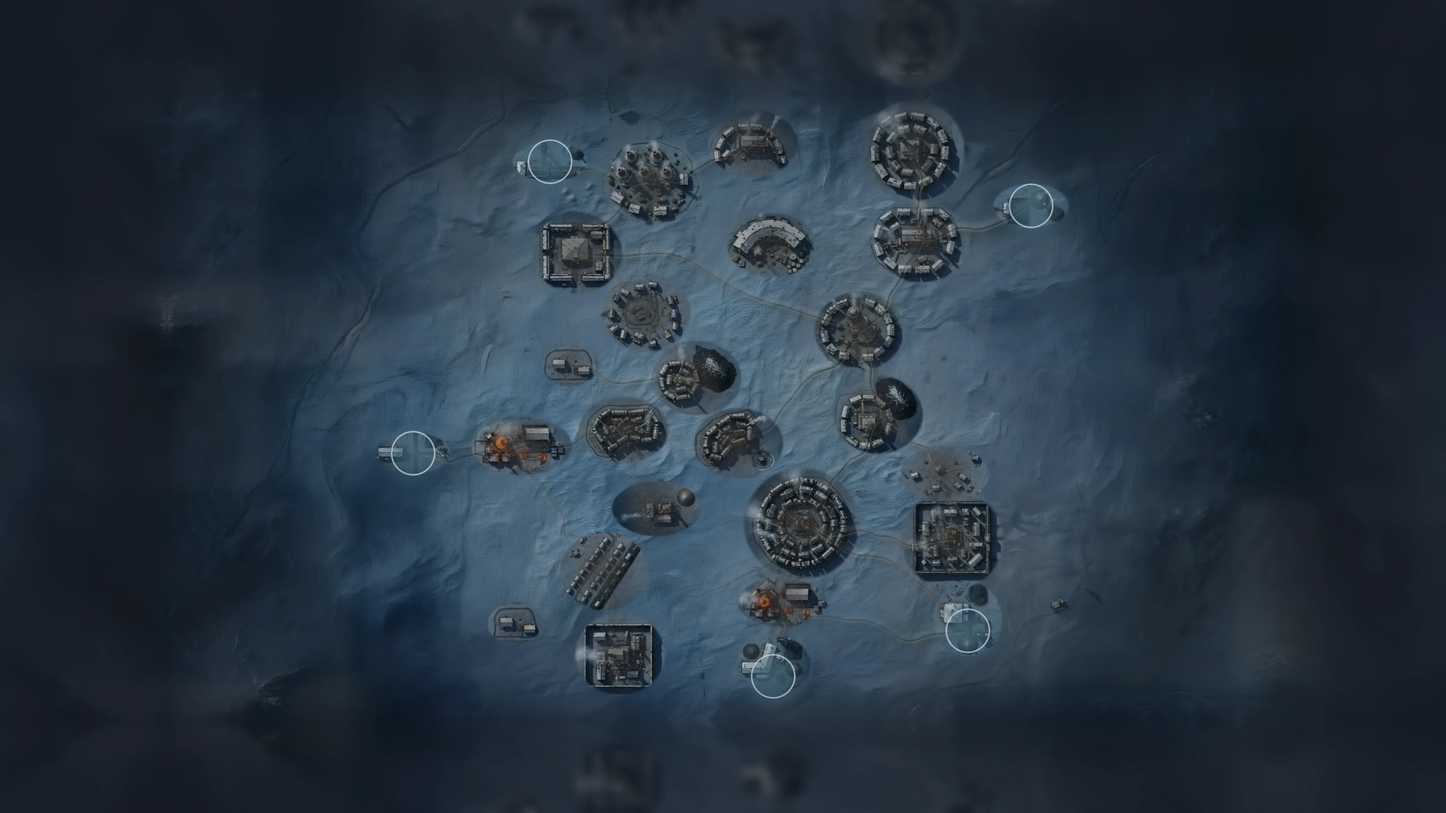
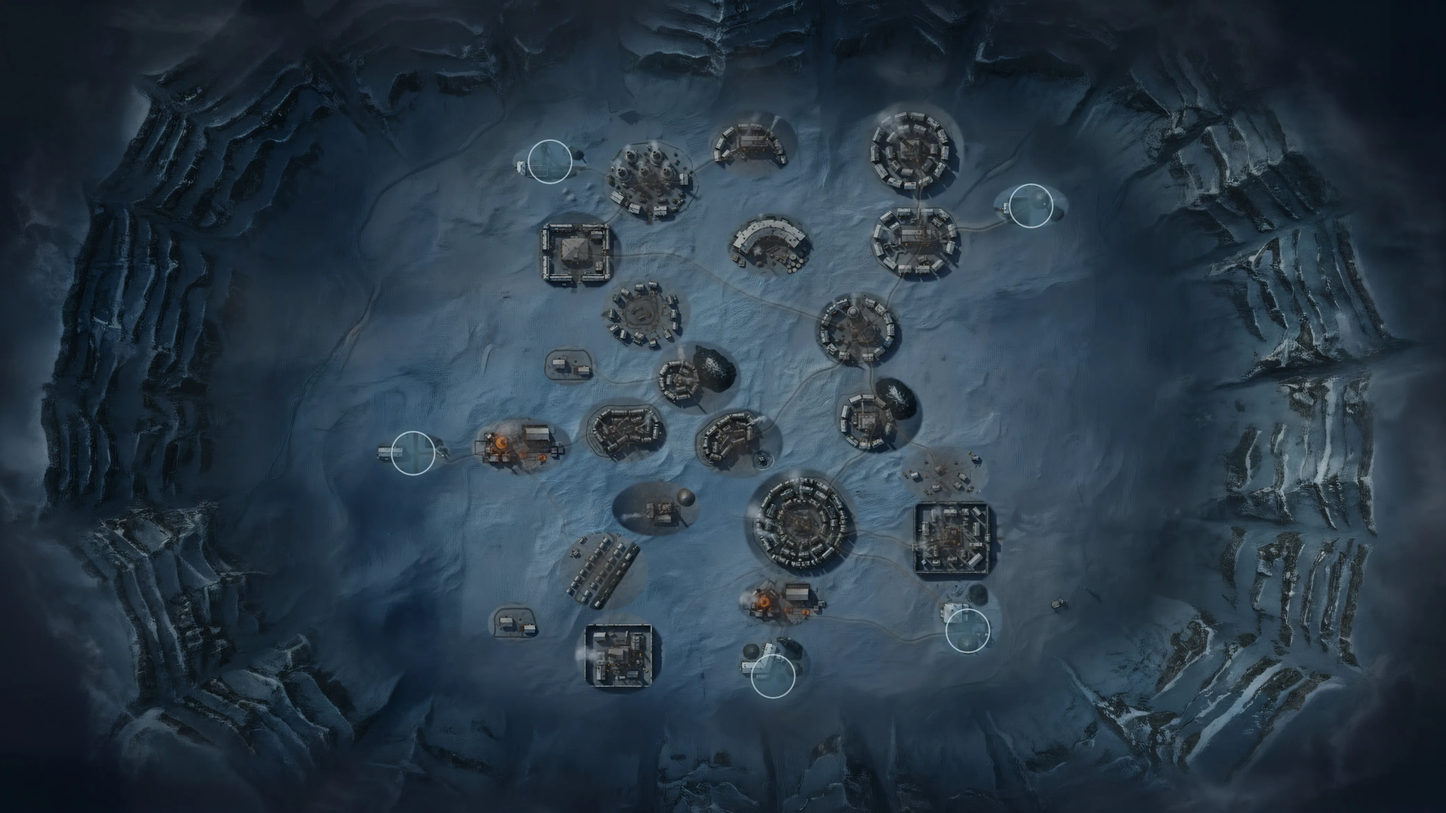
feat(assets): raise the crater's rim round the frozen city
The frozen city sat on a plain that faded to nothing. Walls of ice and
dark rock now rise where the board ends, laid through the crater's
floor so the play area and every place on it stay as they were.

diff --git a/tools/map/crater-rim.py b/tools/map/crater-rim.py
@@ -1,0 +1,42 @@
+#!/usr/bin/env python3
+"""The crater's rim laid round a served ground (ImageMagick 7).
+
+Frostpunk's city sits at the bottom of a crater. Asked to paint the rim
+round the frozen city (the served ground handed over, "keep the middle
+exactly as it is"), the model also repainted the middle and let the walls
+climb a long way into the play area; so only its margin is used, from the
+world's edge outward, laid over the ground through a soft band: nothing
+inside the play area changes, and the walls rise where the board ends.
+
+Usage, from the repository root:
+  tools/map/crater-rim.py <rim.png> <places.json> <ground.webp> <out.webp> [tone]
+rim is the model's painting at any size (it is brought to the ground's
+4160x2340); places.json comes from places.ts, and keeps the walls off
+every town and merchant; tone is a brightness,saturation for the rim
+(100,100), the rail era's walls a little darker and greyer.
+"""
+import json, os, subprocess, sys, tempfile
+
+RIM, PLACES, GROUND, OUT = sys.argv[1:5]
+TONE = sys.argv[5] if len(sys.argv) > 5 else '100,100'
+FW, FH, BX, BY = 4160, 2340, 480, 270
+# the floor of the crater: the world less this much at the sides, its
+# corners rounded, so the walls come in where the board is empty — the
+# corners and the far sides — and the rim reads as a crater, not a frame
+INSET, CORNER, SOFT = 150, 520, 90
+# and never over a town or a merchant: a clear disc round each
+KEEP, KEEP_SOFT = 250, 60
+T = tempfile.mkdtemp()
+mask = f'{T}/mask.png'
+rim = f'{T}/rim.png'
+p = json.load(open(PLACES))
+discs = [f'circle {BX + t["x"]:.0f},{BY + t["y"]:.0f} {BX + t["x"] + KEEP:.0f},{BY + t["y"]:.0f}' for t in p['towns'] + p['merchants']]
+subprocess.run(['magick', '-size', f'{FW}x{FH}', 'xc:white', '-fill', 'black',
+                '-draw', f'roundrectangle {BX + INSET},{BY + INSET} {FW - BX - INSET},{FH - BY - INSET} {CORNER},{CORNER}', '-blur', f'0x{SOFT}',
+                '(', '-size', f'{FW}x{FH}', 'xc:white', '-fill', 'black', '-draw', '\n'.join(discs), '-blur', f'0x{KEEP_SOFT}', ')', '-compose', 'multiply', '-composite', mask], check=True)
+subprocess.run(['magick', RIM, '-resize', f'{FW}x{FH}!', '-modulate', TONE, mask, '-alpha', 'off', '-compose', 'CopyOpacity', '-composite', rim], check=True)
+subprocess.run(['magick', GROUND, rim, '-compose', 'over', '-composite', '-quality', '82', OUT], check=True)
+for f in (mask, rim):
+    os.remove(f)
+os.rmdir(T)
+print(f'{OUT}: the rim laid, the floor {INSET} px in from the world\'s edge, {len(discs)} places kept clear')

diff --git a/tools/map/README.md b/tools/map/README.md
@@ -360,3 +360,23 @@ wash went for the lamps above.
       tools/assets/map/compose-canal.sh canal.png geo.json map-frostcity-canal
     ETCH=1 INK=ice TONE=116,92 DIM=70 FADE=60 MIST='rgb(24,30,44)' \
       tools/assets/map/compose-rail.sh rail-world.png geo.json map-frostcity-rail
+
+### The crater's rim
+
+Frostpunk's city sits at the bottom of a crater. The served frozen-city
+ground, handed to `fal-ai/nano-banana/edit` with "keep the middle exactly
+as it is, only the outer margin changes", came back with walls of cracked
+ice and dark rock all round — and the middle repainted, the walls climbing
+a long way into the play area. `tools/map/crater-rim.py` keeps only what
+is wanted of it: the rim is laid over the served ground through a mask
+that is the crater's floor — the world less 150 px at the sides, its
+corners rounded, so the walls come in where the board is empty — and a
+clear disc round every town and merchant, so nothing a player reads
+changes. Both eras wear the same rim, the rail's a little darker
+(`88,90`). Source in `map-frostcity-rim-fal.jpg`; run it last, after the
+composers:
+
+    tools/map/crater-rim.py tools/assets/map/map-frostcity-rim-fal.jpg places.json \
+      app/public/map-frostcity-canal.webp app/public/map-frostcity-canal.webp
+    tools/map/crater-rim.py tools/assets/map/map-frostcity-rim-fal.jpg places.json \
+      app/public/map-frostcity-rail.webp app/public/map-frostcity-rail.webp 88,90
